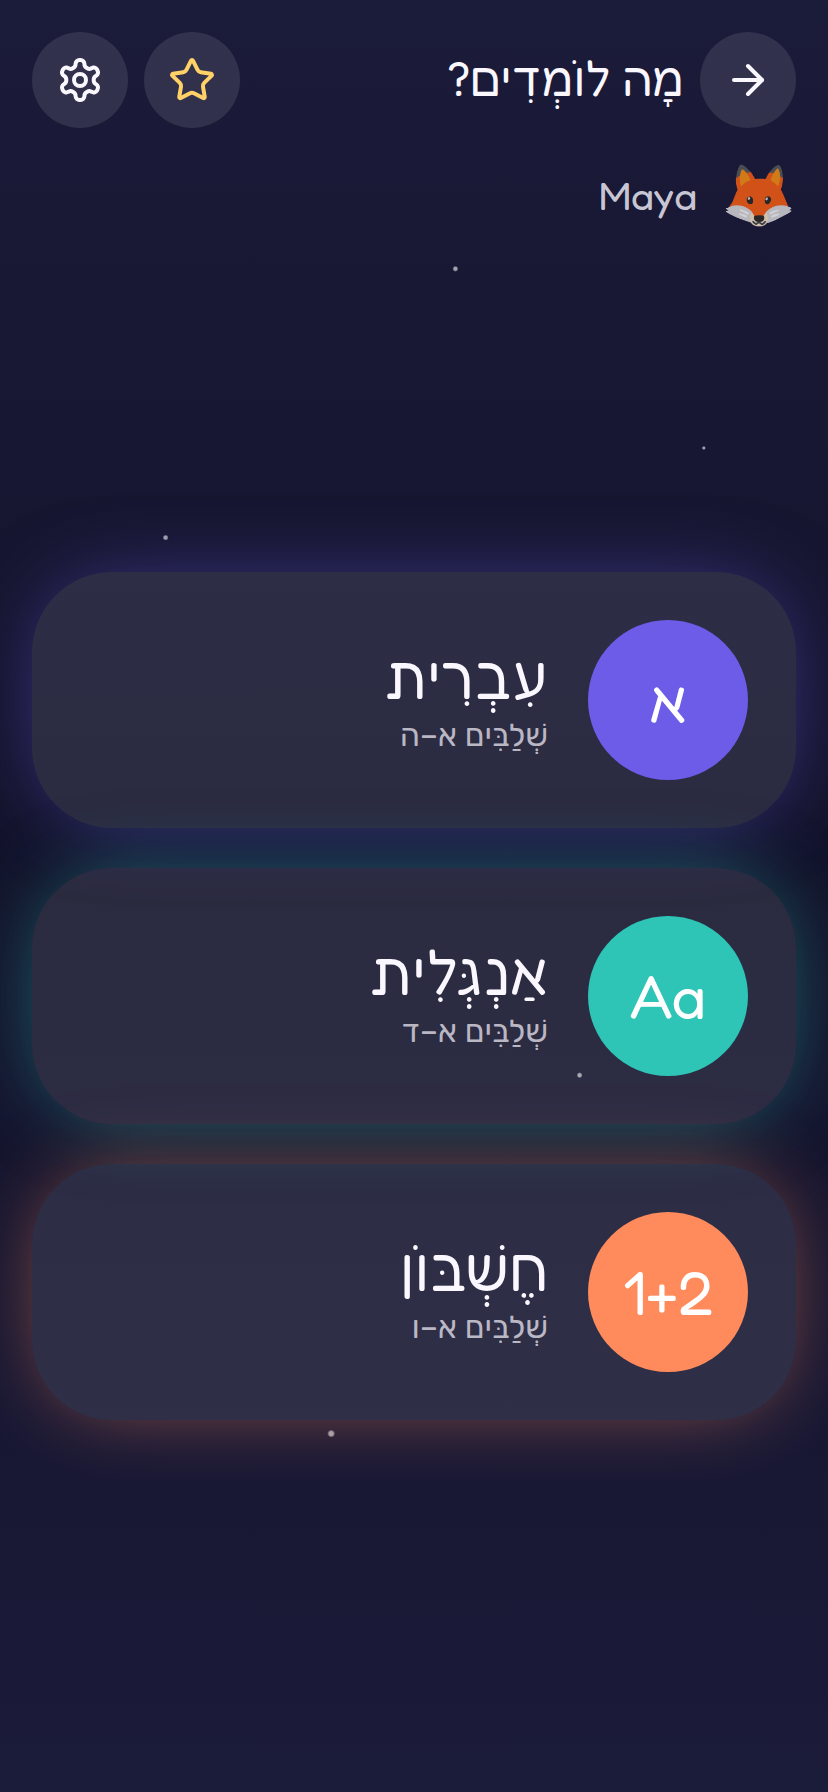
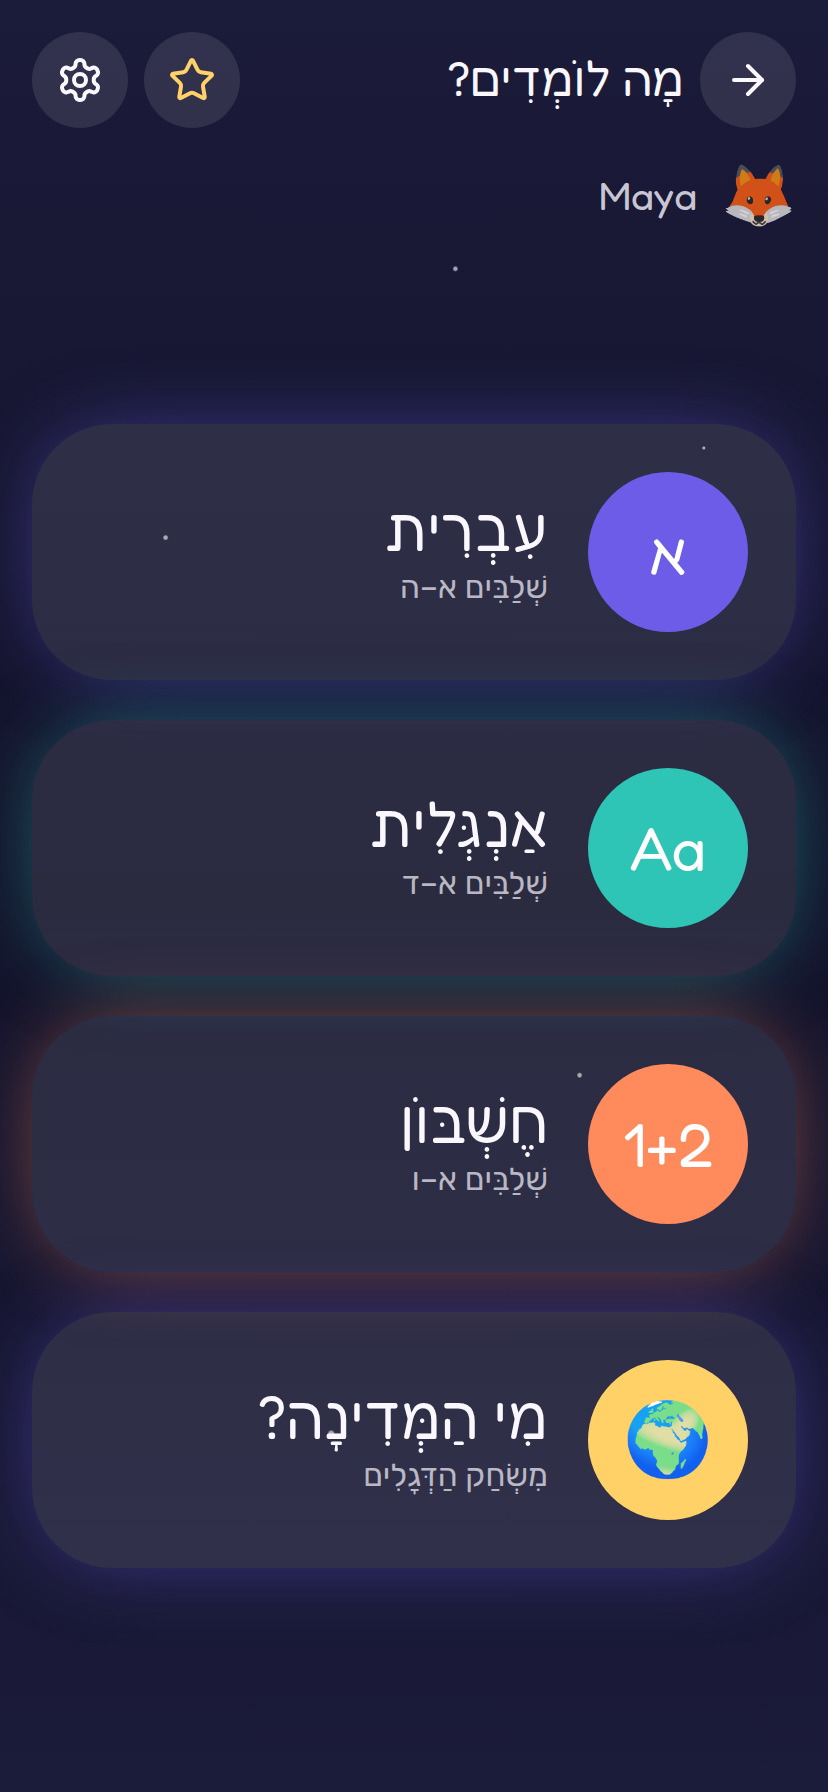
docs: document the flag game and refresh screenshots

diff --git a/README.md b/README.md
@@ -16,6 +16,7 @@ BrightKids is audio-first, mobile-first, and zero-PII: profiles are just a name 
 - **Seven activity types** — letter recognition, multiple choice, counting, arithmetic, matching, drag-to-order, and finger **tracing** (canvas with mask-coverage scoring).
 - **Curriculum-based exercises** — built from a real graded worksheet curriculum. Math (g1–6) spans counting, comparison ("Who is bigger?"), number sense, place value, the four operations, sequences, even/odd, fractions, decimals, order of operations, rounding, word problems, and clock reading. Hebrew (g1–5) covers vowels, reading comprehension, synonyms/opposites, verbs, and sentence ordering; English (g1–4) covers ABC, phonics, word families, and graded reading. Math & Hebrew narrate in Hebrew; English in English.
 - **Randomized practice** — pick a subject then a stage; every lesson holds a large pool and samples a fresh set each play, with a **shuffle** button to redraw for endless variety.
+- **Flag game — מִי הַמְּדִינָה?** — a top-level game beside the subjects: spot the country behind the flag from 4 Hebrew options. 90 countries (incl. Israel) with bundled SVG flags (no emoji fallbacks), 10 per round, and shuffle to keep going — competition style.
 - **Optional narration** — text-to-speech is **off by default**; enable it with `BRIGHTKIDS_TTS_ENABLED` for a tap-to-hear **Listen** button (he-IL for Hebrew/Math, en-US for English). No auto-play, so the screen stays calm.
 - **Playful rewards** — confetti, synthesized sound effects, Bibo reactions, stars, and a daily streak. Mistakes get a gentle "try again," never a shaming buzzer.
 - **Accessible** — 48px tap targets, `prefers-reduced-motion` honored, OpenDyslexic font, high-contrast palette, and picture/visual-first activities so pre-readers can play.
@@ -39,9 +40,9 @@ BrightKids is audio-first, mobile-first, and zero-PII: profiles are just a name 
 |---|---|---|---|
 | ![Order of operations](assets/screenshots/lesson-math-concept.png) | ![Arithmetic](assets/screenshots/lesson-math-set.png) | ![Compare](assets/screenshots/lesson-compare.png) | ![Word problems](assets/screenshots/lesson-math.png) |
 
-| Settings | OpenDyslexic font |
-|---|---|
-| ![Settings](assets/screenshots/settings.png) | ![OpenDyslexic](assets/screenshots/lesson-dyslexic.png) |
+| Settings | OpenDyslexic font | Flag game (מי המדינה?) |
+|---|---|---|
+| ![Settings](assets/screenshots/settings.png) | ![OpenDyslexic](assets/screenshots/lesson-dyslexic.png) | ![Flag game](assets/screenshots/lesson-flags.png) |
 
 Social preview (the Open Graph image served in public mode):
 